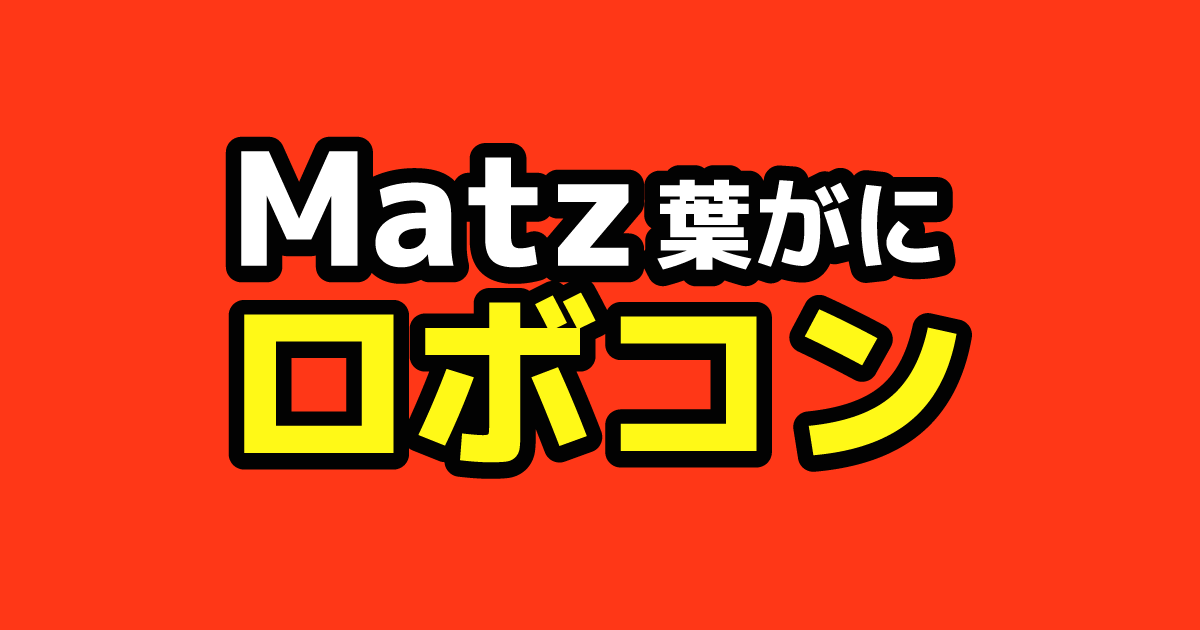
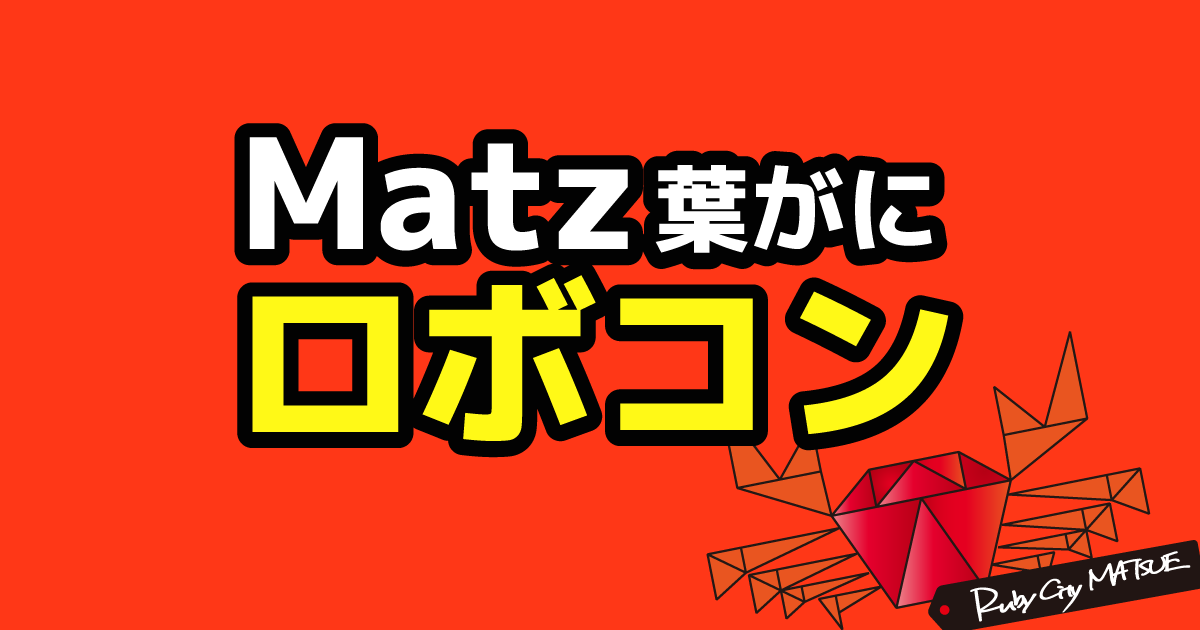
メインイメージおよびOGPの差し替えと協力の追加

Changed region(s): [[0.185, 0.181, 1.0, 1.0]]

diff --git a/index.html b/index.html
@@ -19,9 +19,8 @@
 <body>
     <header>
         <div class="inner">
-        <img class="img-fluid" srcset="/kani-robo/images/main-image@2x.png 2x" alt="Matz葉がにロボコン">
+            <img class="img-fluid" srcset="/kani-robo/images/main-image@2x.png 2x" alt="Matz葉がにロボコン">
         </div>
-        <nav></nav>
     </header>
 
     <div class="container">
@@ -62,9 +61,14 @@
                 <li>主　催：松江工業高等専門学校</li>
                 <li>共　催：しまねOSS協議会、松江市</li>
                 <li>後　援：島根県</li>
-                <li>協　力：福井県こどもプログラミング協議会 </li>
+                </li>
             </ul>
-            <p><b>かにロボ連盟</b>：<a href="https://kani-robocon.com/">越前がにロボコン</a> <i class="bi bi-arrow-up-right-square-fill"></i></p>
+            <p class="text-center">協　力</p>
+            <ul>
+                <li>福井県こどもプログラミング協議会</li>
+                <li>JAXA 宇宙科学研究所 Planet-C プロジェクト</li>
+                <li>かにロボ連盟：<a href="https://kani-robocon.com/">越前がにロボコン</a> <i class="bi bi-arrow-up-right-square-fill"></i></li>
+            </ul>                
         </div>
     </footer>
 </body>

diff --git a/css/default.css b/css/default.css
@@ -11,19 +11,13 @@ h1,h2{
 }
 
 header {
-  background-color: #F4371D;
-  overflow: hidden
+  background-image: url(/kani-robo/images/bg-image@2x.jpg);
+  background-position: left center; 
 }
 
 header .inner {
 	max-width: 600px;
 	margin: 0 auto;
-  padding:0 1em;
-  color: #FFF;
-}
-
-nav {
-  background-color: black;
 }
 
 main {
@@ -47,7 +41,7 @@ footer .inner {
 
 footer .inner ul{
   list-style: none;
-  line-height: 3;
+  line-height: 2;
   padding-left: 0;
 }
 
